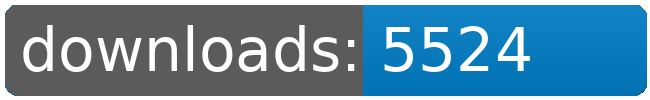
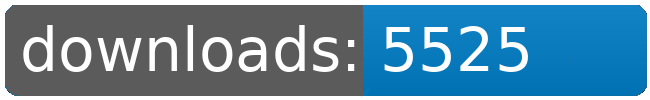
dl log written

Changed region(s): [[0.7692, 0.27, 0.8308, 0.72]]

diff --git a/README.md b/README.md
@@ -21,8 +21,8 @@
 		<td>5419</td>
 		<td>5451</td>
 		<td>5493</td>
-		<td>5524</td>
-		<td>+ 31</td>
+		<td>5525</td>
+		<td>+ 32</td>
 	</tr>
 	<tr>
 		<td>Factory.Outlets</td>
@@ -109,8 +109,8 @@
 		<td></td>
 		<td></td>
 		<td></td>
-		<td>43806</td>
-		<td>160</td>
+		<td>43807</td>
+		<td>161</td>
 	</tr>
 </table>
 </sub></sup>
@@ -157,8 +157,8 @@
 		<td>5419</td>
 		<td>5451</td>
 		<td>5493</td>
-		<td>5524</td>
-		<td>+ 31</td>
+		<td>5525</td>
+		<td>+ 32</td>
 	</tr>
 	<tr>
 		<td>Korunak.Defense.Drones</td>
@@ -223,8 +223,8 @@
 		<td></td>
 		<td></td>
 		<td></td>
-		<td>43806</td>
-		<td>160</td>
+		<td>43807</td>
+		<td>161</td>
 	</tr>
 </table>
 </sub></sup>
